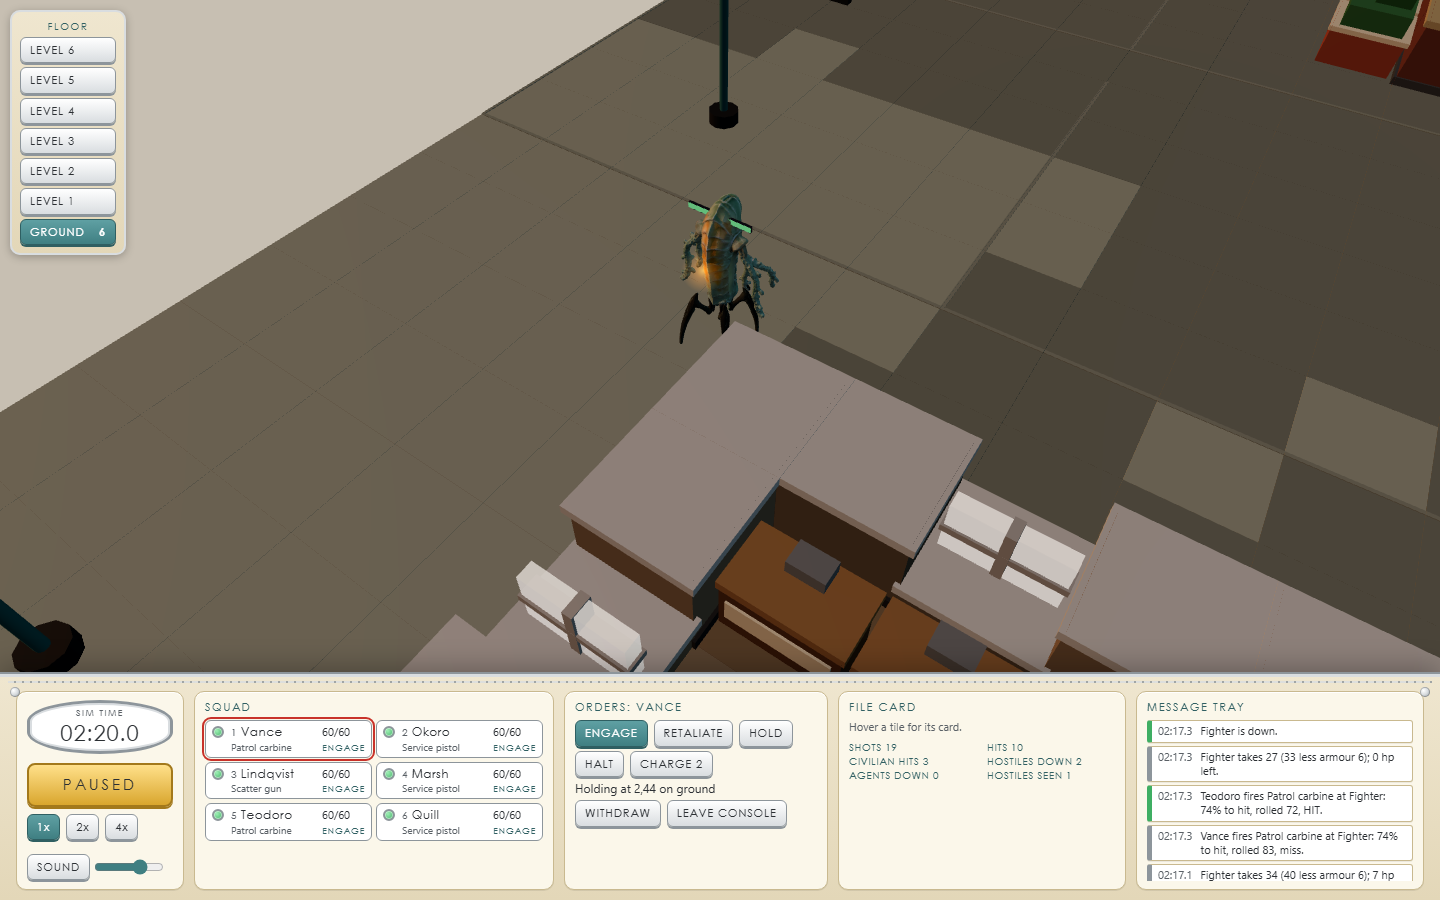
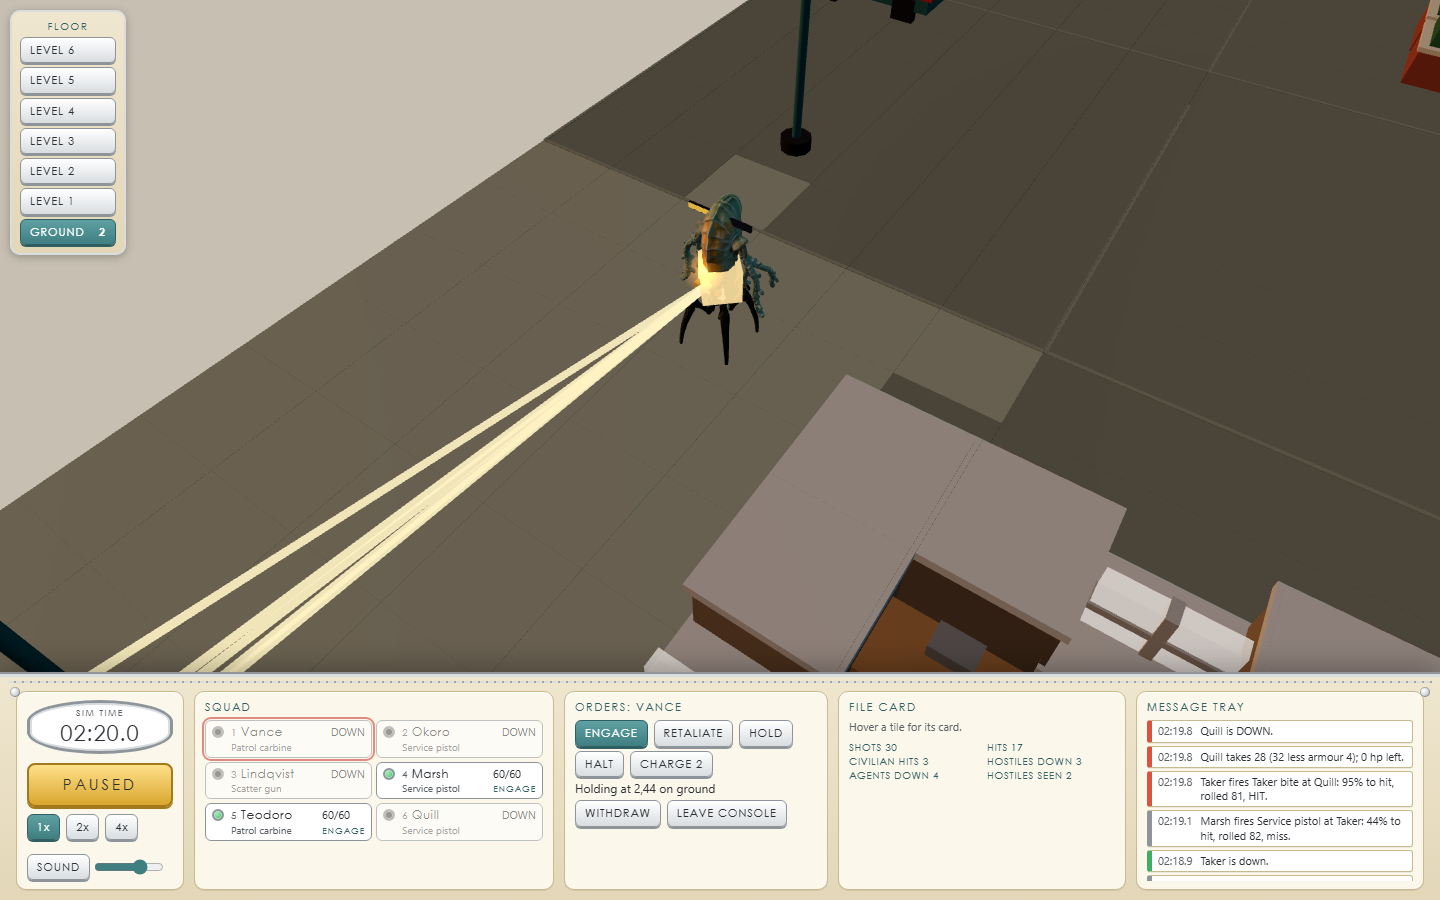
Controls: number keys select then centre, pans move with the input, WASD pans
- Pressing an agent's number selects them; pressing it again centres the
  camera on them (the first press no longer moves the view).
- Middle-drag (and left-drag or one-finger pan) moves the view with the
  mouse: drag right looks further right. The left/right sign was flipped.
- W, A, S, D pan the view while held, scaled by frame time and camera
  distance; keys clear on window blur and are ignored in inputs.
- e2e: a keys test for both behaviours; rule 27 recentres before the
  wheel step so the flipped pans cannot carry the cursor off the block.

diff --git a/src/client/board/CameraRig.tsx b/src/client/board/CameraRig.tsx
@@ -1,11 +1,30 @@
 // KB rule 27, the mouse map: wheel zooms towards the cursor, right-drag rotates and tilts, middle-drag pans,
 // left picks; left-drag pans until the first middle-button press shows the mouse has one (remembered in
 // localStorage `ekc-mouse`); preventDefault on a middle pointerdown (Windows autoscroll). Touch: one finger
-// pans, two twist and pinch. Picking itself lives on the tiles (rule 25), not here.
+// pans, two twist and pinch. WASD pans while held. A pan moves the view with the input: drag or press right
+// looks further right. Picking itself lives on the tiles (rule 25), not here.
 import { useFrame, useThree } from '@react-three/fiber';
 import { useEffect, useRef } from 'react';
 import { applyRig, clampRig, groundAtScreen, live, readMouseMode, rememberThreeButton, rig, LEVEL_H } from './world';
 import { useClient } from '../store';
+
+/** Moves the camera target by (right, back) in screen terms, in the camera's ground plane: +right is the camera's right, +back is towards the camera. */
+function panView(right: number, back: number): void {
+  const sy = Math.sin(rig.yaw);
+  const cy = Math.cos(rig.yaw);
+  rig.target.x += right * cy + back * sy;
+  rig.target.z += -right * sy + back * cy;
+  clampRig();
+}
+
+/** WASD pan speed in camera distances per second (the view crosses roughly its own height in about a second). */
+const KEY_PAN_RATE = 0.9;
+const PAN_KEYS: Record<string, [right: number, back: number]> = {
+  KeyW: [0, -1],
+  KeyS: [0, 1],
+  KeyA: [-1, 0],
+  KeyD: [1, 0],
+};
 
 interface Drag {
   mode: 'pan' | 'rotate' | 'none';
@@ -34,13 +53,8 @@ export function CameraRig() {
   useEffect(() => {
     const el = gl.domElement;
     const pan = (dx: number, dy: number) => {
-      // Pan in the camera's ground plane: screen right is +camera right, screen up moves away from the camera.
-      const k = rig.distance * 0.0016;
-      const sy = Math.sin(rig.yaw);
-      const cy = Math.cos(rig.yaw);
-      rig.target.x -= (dx * cy - dy * sy) * k;
-      rig.target.z -= (-dx * sy - dy * cy) * k;
-      clampRig();
+      // The view moves with the mouse: drag right looks further right, drag down looks further towards the camera.
+      panView(dx * rig.distance * 0.0016, dy * rig.distance * 0.0016);
     };
     const rotate = (dx: number, dy: number) => {
       rig.yaw -= dx * 0.006;
@@ -138,7 +152,41 @@ export function CameraRig() {
     };
   }, [gl, camera]);
 
-  useFrame(() => {
+  // WASD pans while held; the keys are read per frame so the move is smooth and scales with the frame time.
+  const held = useRef(new Set<string>());
+  useEffect(() => {
+    const onKeyDown = (e: KeyboardEvent) => {
+      if (!(e.code in PAN_KEYS)) return;
+      const t = e.target as HTMLElement | null;
+      if (t && ['INPUT', 'TEXTAREA', 'SELECT'].includes(t.tagName)) return;
+      held.current.add(e.code);
+    };
+    const onKeyUp = (e: KeyboardEvent) => held.current.delete(e.code);
+    const onBlur = () => held.current.clear();
+    document.addEventListener('keydown', onKeyDown);
+    document.addEventListener('keyup', onKeyUp);
+    window.addEventListener('blur', onBlur);
+    return () => {
+      document.removeEventListener('keydown', onKeyDown);
+      document.removeEventListener('keyup', onKeyUp);
+      window.removeEventListener('blur', onBlur);
+    };
+  }, []);
+
+  useFrame((_, dt) => {
+    if (held.current.size > 0) {
+      let right = 0;
+      let back = 0;
+      for (const code of held.current) {
+        const [r, b] = PAN_KEYS[code]!;
+        right += r;
+        back += b;
+      }
+      if (right !== 0 || back !== 0) {
+        const step = rig.distance * KEY_PAN_RATE * Math.min(dt, 0.1);
+        panView(right * step, back * step);
+      }
+    }
     live.levelY = level * LEVEL_H;
     applyRig(camera, live.levelY);
   });

diff --git a/e2e/rules.spec.ts b/e2e/rules.spec.ts
@@ -119,7 +119,13 @@ test('rule 27: left-drag pans until a middle button is seen, right-drag turns an
   const c4 = await cam();
   expect(c4.target).toEqual(c3.target);
 
-  // 5. The wheel zooms towards the cursor: closer, and the tile under the cursor stays under it.
+  // 5. The wheel zooms towards the cursor: closer, and the tile under the cursor stays under it. Look back at the
+  // squad first, since the pans above may have carried the cursor off the block.
+  await page.evaluate(() => {
+    const a = window.__ekc!.getState()!.units.find((u) => u.side === 'agency')!;
+    window.__ekc!.setCamera({ target: { x: a.x + 0.5, z: a.y + 0.5 } });
+  });
+  await page.waitForTimeout(300);
   const under0 = await page.evaluate(([x, y]) => window.__ekc!.tileAtScreen(x!, y!), [cx, cy]);
   await page.mouse.move(cx, cy);
   await page.mouse.wheel(0, -400);
@@ -133,5 +139,47 @@ test('rule 27: left-drag pans until a middle button is seen, right-drag turns an
   // The remembered mode survives a reload.
   await page.reload();
   expect(await page.evaluate(() => window.__ekc!.mouseMode())).toBe('three-button');
+  expect(errors).toEqual([]);
+});
+
+test('keys: a number selects its agent and centres only on the second press; WASD pans the view with the key', async ({ page }) => {
+  const errors = watchErrors(page);
+  await openTitle(page);
+  await startRaid(page);
+  const cam = () => page.evaluate(() => window.__ekc!.camera()!);
+  const first = await page.evaluate(() => window.__ekc!.getState()!.units.filter((u) => u.side === 'agency')[0]!);
+  // Clear the raid's starting selection and look away from the squad, so both the select and the centring show.
+  await page.evaluate(() => {
+    window.__ekc!.select(null);
+    window.__ekc!.setCamera({ target: { x: -4, z: -4 } });
+  });
+  await expect(page.getByTestId(`agent-${first.id}`)).toHaveAttribute('aria-pressed', 'false');
+  const c0 = await cam();
+  await page.keyboard.press('Digit1');
+  await expect(page.getByTestId(`agent-${first.id}`)).toHaveAttribute('aria-pressed', 'true');
+  expect((await cam()).target).toEqual(c0.target);
+  await page.keyboard.press('Digit1');
+  await page.waitForFunction(([x, z]) => {
+    const t = window.__ekc!.camera()!.target;
+    return Math.abs(t.x - x!) < 0.01 && Math.abs(t.z - z!) < 0.01;
+  }, [first.x + 0.5, first.y + 0.5]);
+  await expect(page.getByTestId(`agent-${first.id}`)).toHaveAttribute('aria-pressed', 'true');
+
+  // WASD: with the camera looking north (yaw 0), D moves the target east and W moves it north (-z).
+  await page.evaluate(() => window.__ekc!.setCamera({ yaw: 0, target: { x: 8, z: 6 } }));
+  const c1 = await cam();
+  await page.keyboard.down('KeyD');
+  await page.waitForFunction((x) => window.__ekc!.camera()!.target.x > x! + 1, c1.target.x);
+  await page.keyboard.up('KeyD');
+  const c2 = await cam();
+  expect(Math.abs(c2.target.z - c1.target.z)).toBeLessThan(0.01);
+  await page.keyboard.down('KeyW');
+  await page.waitForFunction((z) => window.__ekc!.camera()!.target.z < z! - 1, c2.target.z);
+  await page.keyboard.up('KeyW');
+  const c3 = await cam();
+  expect(Math.abs(c3.target.x - c2.target.x)).toBeLessThan(0.01);
+  // Released keys stop the pan.
+  await page.waitForTimeout(200);
+  expect((await cam()).target).toEqual(c3.target);
   expect(errors).toEqual([]);
 });

diff --git a/src/client/Title.tsx b/src/client/Title.tsx
@@ -77,7 +77,7 @@ export function Title() {
           )}
         </div>
         <div className="title-foot">
-          Real time with pause. Space pauses, 1 to 6 pick an agent, B arms a charge, PgUp and PgDn change floor; wheel zooms, right-drag turns, middle-drag pans. Hostiles fight back: hosts ambush, takers hunt, fighters breach. Early build M4: generated figures for the moulded suit, the revealed host, the taker and the fighter; the rest are stand-ins.
+          Real time with pause. Space pauses, 1 to 6 pick an agent and again centre on them, B arms a charge, PgUp and PgDn change floor; wheel zooms, right-drag turns, middle-drag or WASD pans. Hostiles fight back: hosts ambush, takers hunt, fighters breach. Early build M4: generated figures for the moulded suit, the revealed host, the taker and the fighter; the rest are stand-ins.
         </div>
       </div>
     </div>

diff --git a/src/client/Hud.tsx b/src/client/Hud.tsx
@@ -71,9 +71,10 @@ export function Hud() {
         const n = Number(e.code.slice(5)) - 1;
         const agents = s.agency?.units.filter((u) => u.side === 'agency') ?? [];
         const u = agents[n];
+        // First press selects; pressing the same number again centres the camera on that agent.
         if (u && !u.down) {
-          s.select(u.id);
-          s.focusUnit(u.id);
+          if (s.selected === u.id) s.focusUnit(u.id);
+          else s.select(u.id);
         }
       } else if (e.code === 'Escape') {
         if (s.mode === 'blast') s.setMode('normal');

diff --git a/README.md b/README.md
@@ -4,6 +4,6 @@ Codename for an original 3D game by **evilgouki**: one retro-future city, real-t
 
 Start with `CLAUDE.md`, then `PLAN.md` and `STATUS.md`. Design: `docs/GAME-DESIGN.md`. Look: `docs/presentation-concept.md`.
 
-`npm install`, then `npm run dev` to play the first raid (real time with pause on a destructible city block; Space pauses, 1 to 6 pick an agent, B arms a charge, PgUp and PgDn change floor, wheel zooms, right-drag turns, middle-drag pans). `?gallery` on the page opens the figure gallery; `sounds.html` is the sound desk.
+`npm install`, then `npm run dev` to play the first raid (real time with pause on a destructible city block; Space pauses, 1 to 6 pick an agent and again centre on them, B arms a charge, PgUp and PgDn change floor, wheel zooms, right-drag turns, middle-drag or WASD pans). `?gallery` on the page opens the figure gallery; `sounds.html` is the sound desk.
 
 Gates: `npm run typecheck` | `npm test` | `npm run build` | `npm run validate:data` | `npm run sim` | `npm run action-fuzz` | `npm run bench:ai` | `npm run e2e` | `npm run check:look`. Tools: `npm run map:make` (rewrites the block map, its props and its battle), `npm run golden:make`, `npm run shot` (screenshots into `docs/screenshots/`), `node tools/perf.mjs` (real frame times through the machine's GPU), `npm run artifact` (one self-contained page in `dist-artifact/` for a private Artifact). Rules: `docs/spec/10-rules.md`; the look: `docs/art/tile-set.md`, `docs/figures.md`.
